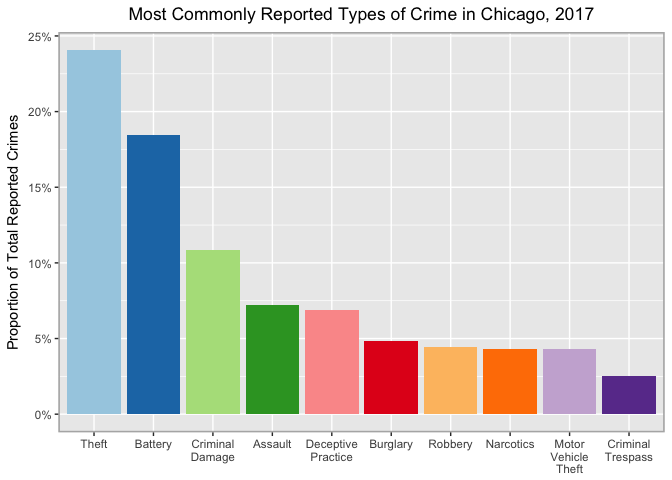
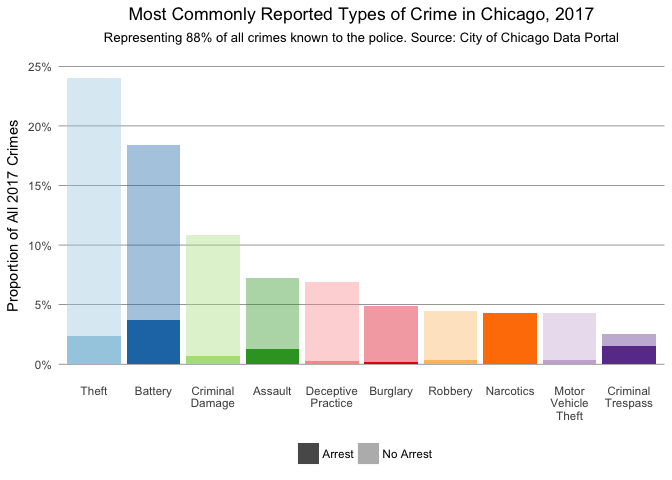
Done with viz

diff --git a/hw1/hw1_create.md b/hw1/hw1_create.md
@@ -48,15 +48,22 @@ keep_cats <- df_crimes[ order(-df_crimes[2]), ]
 keep_cats <- unlist(list(as.character(keep_cats[(1:11), "Primary.Type"])))
 keep_cats <- keep_cats[keep_cats != 'OTHER OFFENSE']
 
-crimes.final <- crimes.sub[as.character(crimes.sub$Primary.Type) %in% keep_cats, ]
-crimes.final$Primary.Type <- factor(crimes.final$Primary.Type, levels = keep_cats)
+#crimes.final <- crimes.sub[as.character(crimes.sub$Primary.Type) %in% keep_cats, ]
+#crimes.final$Primary.Type <- factor(crimes.final$Primary.Type, levels = keep_cats)
 ```
 
 ``` r
-df_crimes$prop <- df_crimes$num_rows / sum(df_crimes$num_rows)
-df_crimes.sub <- df_crimes[as.character(df_crimes$Primary.Type) %in% keep_cats, ]
-df_crimes.sub$Primary.Type <- factor(df_crimes.sub$Primary.Type, levels = keep_cats)
-df_crimes.sub <- df_crimes.sub[ order(-df_crimes.sub[3]), ]
+#Get count of each type and arrest status
+crimes.sub %>% 
+  group_by(Primary.Type,Arrest) %>%
+  summarise(num_rows = length(Primary.Type)) %>%
+  data.frame() -> df.crimes
+
+#Calc prop for each row relative to the whole, then keep 10 most common types
+df.crimes$prop <- df.crimes$num_rows / sum(df.crimes$num_rows)
+df.crimes.sub <- df.crimes[as.character(df.crimes$Primary.Type) %in% keep_cats, ]
+df.crimes.sub$Primary.Type <- factor(df.crimes.sub$Primary.Type, levels = keep_cats)
+df.crimes.sub <- df.crimes.sub[ order(df.crimes.sub[3]),]
 ```
 
 ``` r
@@ -65,51 +72,64 @@ leg_labels <- gsub(" ", "\n", leg_labels, perl=TRUE)
 ```
 
 ``` r
-ggplot(df_crimes.sub,aes(Primary.Type,prop)) + geom_bar(stat='identity',aes(fill=Primary.Type)) +
-      theme(legend.position = 'none',legend.title = element_blank(),
-            panel.border = element_rect(linetype = "solid",
-                                        color = "grey70", fill=NA, size=1.1),
-            plot.title = element_text(hjust = 0.5),
-            axis.title.x=element_blank()) +
-      scale_fill_brewer(palette = "Paired") +
-      scale_y_continuous(labels = scales::percent_format()) +
-      scale_x_discrete(labels=leg_labels) +
-      labs(y='Proportion of Total Reported Crimes',
-           title='Most Commonly Reported Types of Crime in Chicago, 2017')
-```
-
-![](hw1_create_files/figure-markdown_github/viz-1.png)
-
-``` r
-#Get prop of each type and arrest status
-crimes.sub %>% 
-  group_by(Primary.Type,Arrest) %>%
-  summarise(num_rows = length(Primary.Type)) %>%
-  data.frame() -> df.crimes
-
-df.crimes$prop <- df.crimes$num_rows / sum(df.crimes$num_rows)
-df.crimes.sub <- df.crimes[as.character(df.crimes$Primary.Type) %in% keep_cats, ]
-df.crimes.sub$Primary.Type <- factor(df.crimes.sub$Primary.Type, levels = keep_cats)
-df.crimes.sub <- df.crimes.sub[ order(-df.crimes.sub[3]), ]
-```
-
-``` r
 ggplot(df.crimes.sub,aes(Primary.Type,prop,Arrest)) +
-      geom_bar(stat='identity',aes(alpha=Arrest,fill=Primary.Type)) +
+      geom_bar(stat='identity',aes(alpha=as.factor(Arrest),fill=Primary.Type)) +
       theme(legend.position='bottom',legend.title=element_blank(),
             plot.title=element_text(hjust=0.5),
+            plot.subtitle = element_text(hjust = 0.5),
             axis.title.x=element_blank(),
             panel.background=element_blank(),
             panel.grid.major.y=element_line(colour='grey50',size=.25),
             panel.grid.major.x=element_blank(),
             axis.ticks=element_blank()) +
-      labs(y='Proportion of Total Reported Crimes',
-           title='Most Commonly Reported Types of Crime in Chicago, 2017') +
-      scale_fill_brewer(palette='Paired',guide=FALSE) + guides(fill=FALSE) +
+      labs(y='Proportion of All 2017 Crimes',
+           title='Most Commonly Reported Types of Crime in Chicago, 2017',
+           subtitle='Representing 88% of all crimes known to the police. Source: City of Chicago Data Portal') +
+      scale_fill_brewer(palette='Paired') + guides(fill=FALSE) +
       scale_alpha_discrete(range=c(.4,1),breaks=c('true','false'),
                            labels=c('Arrest','No Arrest')) + 
       scale_y_continuous(labels=scales::percent_format(),limits=c(0,.25)) +
       scale_x_discrete(labels=leg_labels)
 ```
 
-![](hw1_create_files/figure-markdown_github/viz2-1.png)
+![](hw1_create_files/figure-markdown_github/viz-1.png)
+
+What is the story?
+==================
+
+This graph shows the ten most common types of crime known to police in Chicago in the year 2017. With homicide and weapons violations absent from the categories, we see that despite what is portrayed in the media, murder and gun-related offenses must have been relatively rare last year. Robbery, a type of crime about which students, faculty, and staff at the University of Chicago are regularly alerted, was only the seventh most-common crime type. Even less common were known narcotics offenses, though, in contrast to every other represented category, all or nearly all of these resulted in arrest.
+
+Why did you select this graphical form?
+=======================================
+
+I chose to use a bar chart for three key reasons: First, a pie chart would have been inappropriate and hard to read; it would have required me to use all crime categories or else present data in a misleading form and the slices would have been tiny. Second, a line chart seemed inappropriate because it would have given the impression that the data were longitudinal, whereas they are cross-sectional. Third, a bar chart lends itself well to splitting categories into subcategories; this feature allowed me to use transparency to represent the share of known crimes per category that did not result in arrest, a decision I will discuss more fully below.
+
+Why did you use these specific channels to encode the data (e.g. spatial position, colors, scale)?
+==================================================================================================
+
+Spatial position
+----------------
+
+I chose to make a stacked bar chart instead of a dodged chart because representing crimes in which there was an arrest and those in which there was not as part of the same whole was important. Additionally, using a dodged chart causes a gap in the 'Narcotics' section, something that is distracting and aesthetically displeasing.
+
+Colors
+------
+
+I removed a lot of chart junk (background color, vertical gridlines, and crime types from the legend) and used aesthetics and custom labels to convey important information. I consulted several sources before deciding that the 'Paired' color scale was best for color-blindness. I added transparency to distinguish cases in which there was an arrest from cases in which there was no arrest, though this was not my first inclination: I originally tried the 'fill' aesthetic to add borders to each section of each bar; the idea was that the border would separate the arrests from the non-arrests. The result was disappointing, so I added transparency, this was an improvement, but the best iteration is the one presented here. Finally, I removed horizontal gridlines and all tick marks, added percent signs to the y-axis, fixed the casing on the category labels, and included descriptive labels for the y-axis, title, and legend categories.
+
+Scale
+-----
+
+The scale was intentionally chosen to represent the relative proportions of the represented crime types to all crimes known to the police in 2017 as opposed to a count of such crimes. Providing a raw count of crimes would draw the reader's attention to the sheer number of crimes reported in 2017, which might seem outrageously large to naive readers who fail to take into account the city's total population when considering the number of crimes. The goal is not to show that Chicago does or does not have a lot of crime, which a count of crimes would suggest; the goal is to show that the vast majority of crimes are not the ones about which residents might spend the most time worrying.
+
+Why did you make any other data transformations?
+================================================
+
+Data were aggregated to calculate the percentage of crimes in each category relative to all crimes. This is because the goal was to show that the vast majority of crimes known to the police in 2017 were the ones about which we tended to hear the least.
+
+How do these decisions facilitate effective communication?
+==========================================================
+
+This graph is insightful. We immediately grasp that all or nearly all narcotics cases known to the police resulted in an arrest. Criminal trespass was the only other category in which a majority of reports resulted in an arrest. The vast majority of cases in every other category resulted in no arrests, which means that in 2017, Chicago had a very low clearance rate for the most common types of crimes. After pondering the graph, we realize that the impact of the Chicago police in 2017 was mostly focused on making arrests in cases related to drugs. One wonders whether this is a vital function that justifies the level of funding one imagines the police force receives to support such arrests, not to mention the costs of prosecuting such cases and housing or monitoring those convicted of such offenses.
+
+This graph is enlightening. We see that homicides are so rare that they are not present in the top ten most common types of crime. This might ease residents' anxiety about safety in Chicago.
